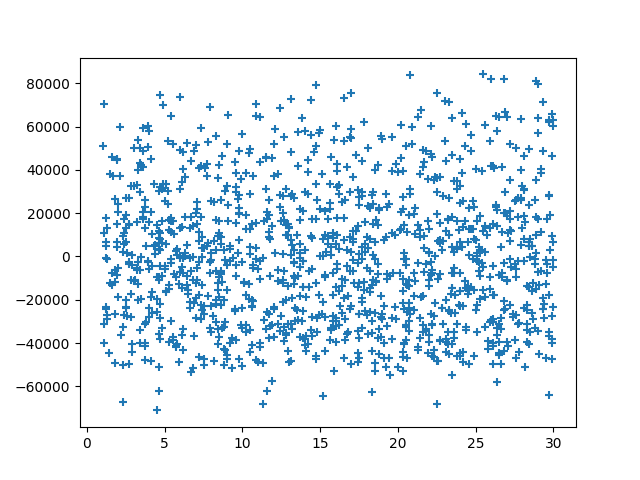
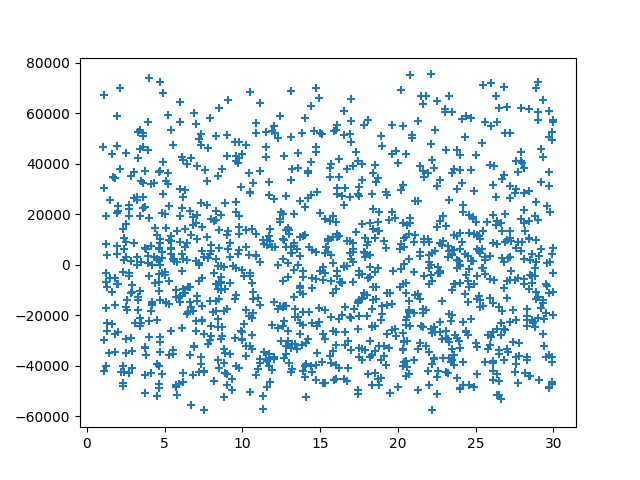
updated solution after looking at icollege solution

diff --git a/data-science/HW06_Taylor_Ryan/analysis.py b/data-science/HW06_Taylor_Ryan/analysis.py
@@ -1,5 +1,4 @@
 import pandas as pd
-import numpy as np
 from sklearn.preprocessing import PolynomialFeatures
 from scipy.stats import pearsonr
 from sklearn.linear_model import LinearRegression
@@ -20,6 +19,9 @@ Y = df.values[:, -1]
 
 # Expand to a 2-degree polynomials
 poly = PolynomialFeatures(2)
+X = poly.fit_transform(X_basic)
+labels = poly.get_feature_names(labels_basic)
+rows, cols = X.shape
 
 # Prepare for loop
 residual = Y
@@ -28,36 +30,45 @@ residual = Y
 # include the intercept
 feature_indices = [0]
 
+model = LinearRegression()
+print("First time through: using original price data as the residual")
+
 while len(feature_indices) < 3:
-    p_values = []
+    p_vals = []
 
-    # Calculate the p-value of the Pearson correlation between each input and the current residual
-    for i in range(len(X_basic[0])):
-        p_values.append(pearsonr(X_basic[:, i], residual)[1])
-        print(f"\t{df.columns[i]} vs residual: p-value={p_values[i]}")
+    # Calculate the p-value of the Pearson correlation
+    # between each input and the current residual
+    for i in range(1, cols):
+        p_vals.append((pearsonr(X[:, i], residual)[1], i))
 
-    p_values = np.array(p_values)
+    # Sort p-values in ascending order
+    sorted_p_vals = sorted(p_vals)
 
-    # Sort the inputs so that the p-values are in ascending order
-    sorted_indices = np.argsort(p_values)
+    for i in range(cols - 1):
+        p_value, idx = sorted_p_vals[i]
+        print(f'\t"{labels[idx]}" vs residual: p-value={p_value}')
 
-    # Add the input with the lowest p-value to the list of inputs you are going to actually use
-    feature_indices.append(sorted_indices[0])
-    X = X_basic[:, feature_indices]
+    # Add the input with the lowest p-value to the list of
+    # inputs you are going to actually use
+    best_idx = sorted_p_vals[0][1]
+    feature_indices.append(best_idx)
 
-    # create list of features in use
-    features = df.columns[feature_indices].to_list()
+    # List off the attributes we will use to create the next residual
+    print("**** Fitting with [", end="")
+    for idx in feature_indices:
+        print(f'"{labels[idx]}" ', end="")
+    print("] ****")
 
-    # Do linear regression using that list of inputs
-    print(f'**** Fitting with ["{feature_indices[1:]}" "{features[1:]}"] ****')
-    model = LinearRegression()
-    model.fit(X, Y)
+    # Fit the model with the current set of inputs
+    sub_X = X[:, feature_indices]
+    model.fit(sub_X, Y)
 
-    # Print the R2 value
-    print(f"R2: {model.score(X, Y)}")
-    # Calculate a new residual
-    residual = Y - model.predict(X)
-    print("Residual is updated\n")
+    # Print the R2 score
+    print(f"R2: {model.score(sub_X, Y)}")
+
+    # Update the residual for the next time
+    print("Residual is updated")
+    residual = Y - model.predict(sub_X)
 
 # Any relationship between the final residual and the unused variables?
 print("Making scatter plot: age_of_roof vs final residual")
